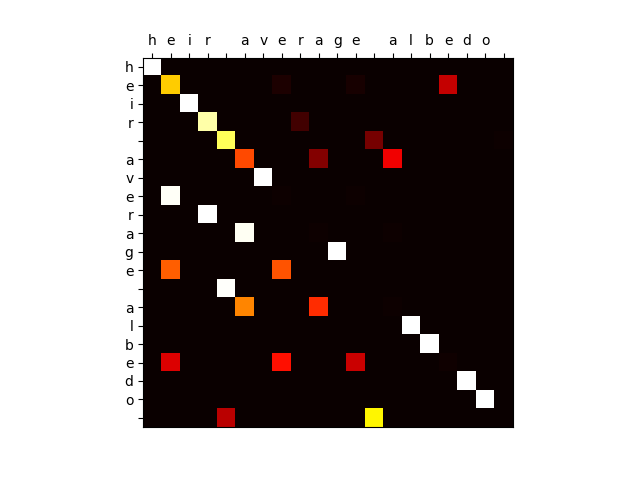
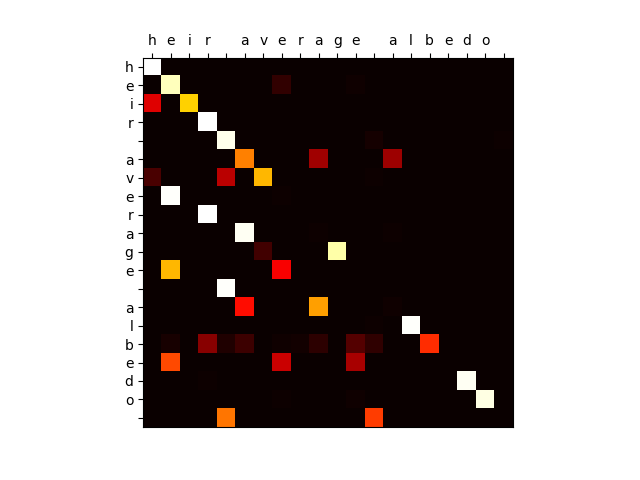
ephocs change

diff --git a/transformer_lm.py b/transformer_lm.py
@@ -73,7 +73,7 @@ def train_lm(args, train_text, dev_text, vocab_index):
     V = len(vocab_index)
     seq_len = 128
     batch_size = 256 if torch.cuda.is_available() else 128
-    epochs = 10
+    epochs = 20
     stride = 32
     lr = 0.01
 
